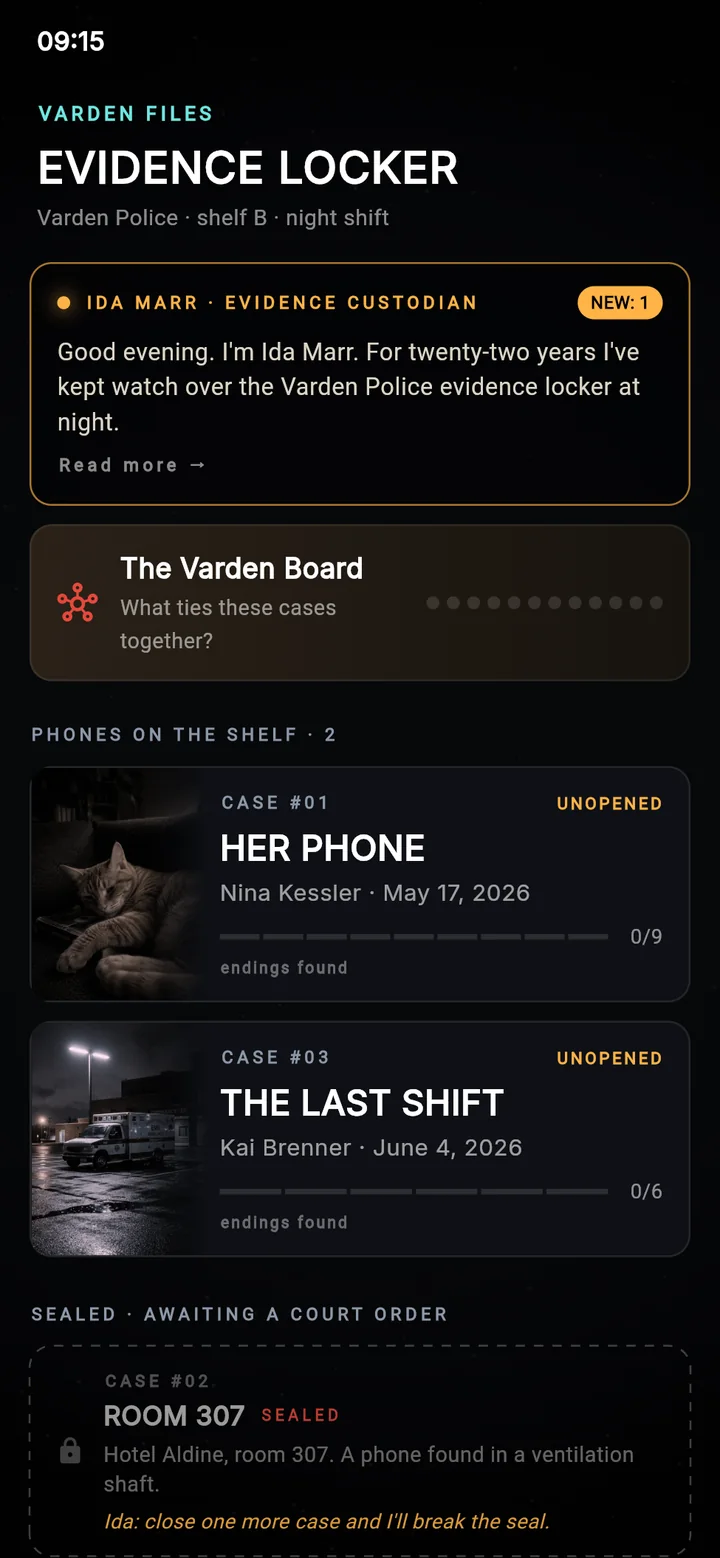
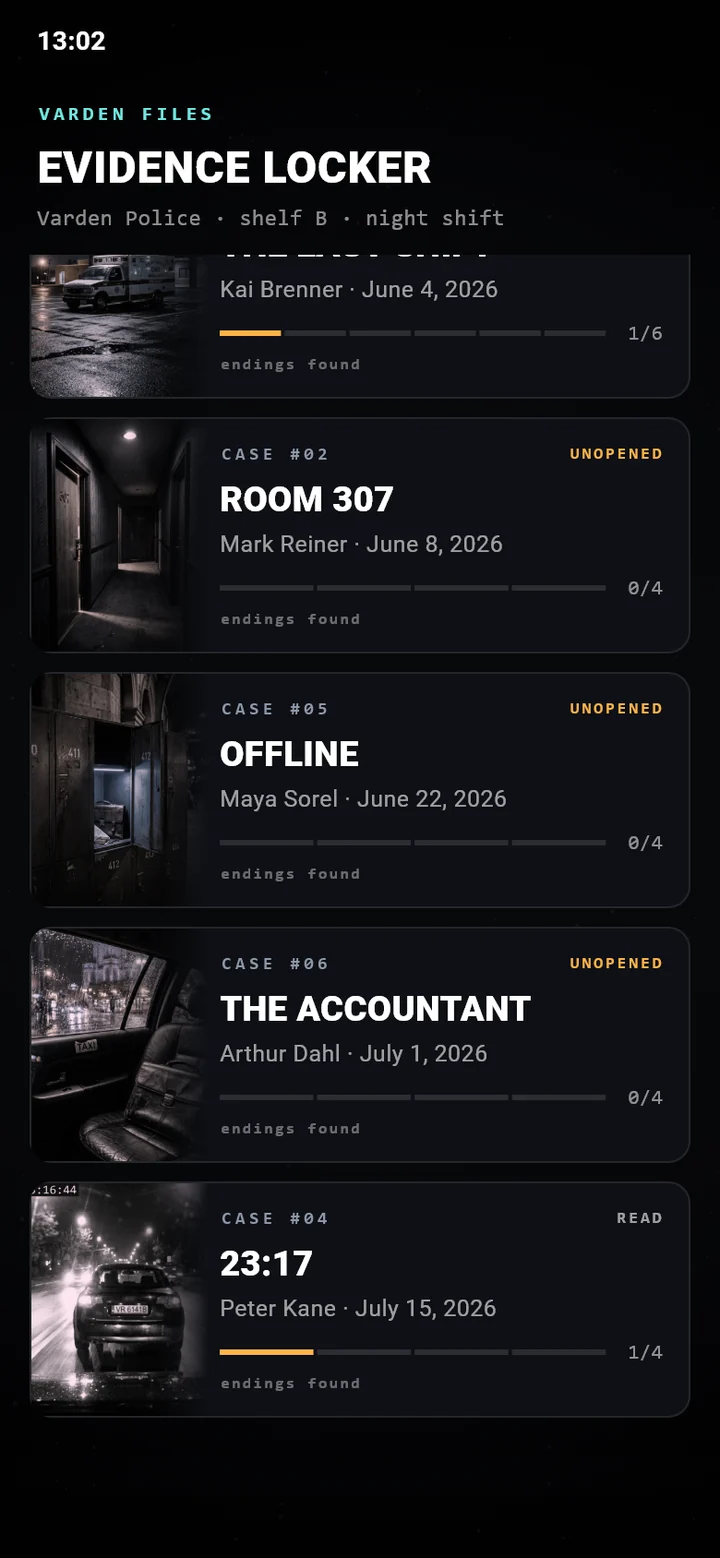
Fix cursor lag, keep game names on one line, centre galleries
- Use the native cursor; only a hover label rides beside it, moved
  straight from the pointer event, so it no longer trails the mouse.
- LUMINIS, VARDEN FILES and Luna never wrap: sized from their column
  width (cqi) in the sections, hero, game cards and tabs.
- Screenshot rails open on the middle shot, snap shots to the centre,
  fade at both edges and get previous/next buttons.
- VARDEN FILES: all six cases shown as open; new locker screenshot,
  the sealed-bags shot removed.

diff --git a/index.css b/index.css
@@ -160,19 +160,17 @@ html[data-world='origin'] .world-index, html[data-world='outro'] .world-index { 
 @media (max-width: 1559px) { .world-index { display: none; } }
 
 /* ─── Cursor ──────────────────────────────────────────────────────────────── */
-html.has-cursor, html.has-cursor a, html.has-cursor button, html.has-cursor [data-cursor] { cursor: none; }
-.cursor-dot, .cursor-ring { position: fixed; left: 0; top: 0; z-index: 150; pointer-events: none; }
-.cursor-dot { width: 6px; height: 6px; margin: -3px 0 0 -3px; border-radius: 50%; background: var(--accent); transition: background-color var(--tint); }
-.cursor-ring {
-  width: 38px; height: 38px; margin: -19px 0 0 -19px; border-radius: 50%; border: 1px solid color-mix(in oklab, var(--text) 45%, transparent);
-  display: grid; place-items: center;
+/* The system cursor stays; this is only a label that rides beside it. */
+.rail { cursor: grab; }
+.rail.is-grabbing { cursor: grabbing; }
+.cursor-tag {
+  position: fixed; left: 0; top: 0; z-index: 150; pointer-events: none; will-change: transform;
+  margin: 18px 0 0 16px; padding: 7px 12px 6px; border-radius: 999px; background: var(--accent); color: var(--accent-ink);
+  font-family: var(--font-mono); font-size: 10px; letter-spacing: 0.14em; text-transform: uppercase; white-space: nowrap;
+  opacity: 0; scale: 0.6; transform-origin: 0 0; transition: opacity 160ms, scale 220ms var(--ease-out), background-color var(--tint);
 }
-.cursor-ring > span { font-family: var(--font-mono); font-size: 10px; letter-spacing: 0.14em; text-transform: uppercase; color: var(--accent-ink); opacity: 0; transition: opacity 200ms; }
-.cursor-ring::before { content: ''; position: absolute; inset: -1px; border-radius: 50%; background: var(--accent); transform: scale(0); transition: transform 450ms var(--ease-out); }
-.cursor-ring.is-active::before { transform: scale(0.35); opacity: 0.4; }
-.cursor-ring.has-label::before { transform: scale(1.9); opacity: 1; }
-.cursor-ring.has-label > span { opacity: 1; position: relative; }
-@media (hover: none) { .cursor-dot, .cursor-ring { display: none; } }
+.cursor-tag.is-on { opacity: 1; scale: 1; }
+@media (hover: none) { .cursor-tag { display: none; } }
 
 /* ─── Hero · featured slider ──────────────────────────────────────────────── */
 .hero { position: relative; height: 100svh; min-height: 640px; overflow: hidden; }
@@ -298,7 +296,6 @@ html.has-cursor, html.has-cursor a, html.has-cursor button, html.has-cursor [dat
 .press-icons span { display: flex; flex-direction: column; font-family: var(--font-display); font-stretch: 85%; font-weight: 700; font-size: 14px; }
 .press-icons small { font-family: var(--font-mono); font-weight: 400; font-size: 10px; letter-spacing: 0.08em; color: var(--text-dim); }
 
-.case-ida { margin: 10px 0 0 !important; font-style: italic; font-size: 13px !important; color: #E8A94F !important; }
 .sr-only { position: absolute; width: 1px; height: 1px; padding: 0; margin: -1px; overflow: hidden; clip: rect(0 0 0 0); white-space: nowrap; border: 0; }
 
 /* ─── World scaffolding ───────────────────────────────────────────────────── */
@@ -329,17 +326,24 @@ html.has-cursor, html.has-cursor a, html.has-cursor button, html.has-cursor [dat
 
 /* Screenshot rail */
 .rail-wrap { position: relative; margin: clamp(64px, 9vh, 120px) 0 clamp(48px, 7vh, 96px); }
+.rail-wrap .rail { -webkit-mask-image: linear-gradient(90deg, transparent, #000 9%, #000 91%, transparent); mask-image: linear-gradient(90deg, transparent, #000 9%, #000 91%, transparent); }
+.rail-nav { display: flex; justify-content: center; gap: 12px; margin-top: 8px; }
+.rail-btn { width: 48px; height: 48px; border-radius: 50%; border: 1px solid var(--rule); color: var(--text); display: inline-grid; place-items: center; transition: border-color 200ms, color 200ms, background-color 200ms; }
+.rail-btn:hover { border-color: var(--accent); color: var(--accent); }
+.rail-btn:focus-visible { outline: 2px solid var(--accent); outline-offset: 3px; }
+@media (hover: none) { .rail-nav { display: none; } }
 .rail {
   display: flex; gap: clamp(16px, 2vw, 32px); overflow-x: auto; overscroll-behavior-x: contain; scroll-snap-type: x proximity;
-  padding: 20px max(var(--gutter), calc((100vw - var(--max)) / 2 + var(--gutter))) 28px;
-  scroll-padding-inline: max(var(--gutter), calc((100vw - var(--max)) / 2 + var(--gutter)));
+  position: relative; justify-content: safe center;
+  /* Half the rail minus half a shot each side, so the first and last shots can reach the centre too. */
+  padding: 20px calc(50% - 150px) 28px;
   scrollbar-width: none; user-select: none; -webkit-user-select: none;
 }
 .rail::-webkit-scrollbar { display: none; }
 .rail.is-grabbing { scroll-snap-type: none; }
 .rail { align-items: flex-end; }
 /* Every shot shares one height; width follows its own ratio (--r = height / width). */
-.shot { --shot-h: clamp(400px, 58vh, 600px); flex: none; width: calc((var(--shot-h) - 14px) / var(--r, 2.1667) + 14px); margin: 0; scroll-snap-align: start; }
+.shot { --shot-h: clamp(400px, 58vh, 600px); flex: none; width: calc((var(--shot-h) - 14px) / var(--r, 2.1667) + 14px); margin: 0; scroll-snap-align: center; }
 .shot-media {
   position: relative; aspect-ratio: 1 / var(--r, 2.1667); border-radius: 34px; overflow: hidden; background: #0c0c0e;
   border: 7px solid #121214; box-shadow: 0 30px 80px -30px rgba(0, 0, 0, 0.85), 0 0 0 1px rgba(255, 255, 255, 0.08);
@@ -350,7 +354,7 @@ html.has-cursor, html.has-cursor a, html.has-cursor button, html.has-cursor [dat
 .shot-live { position: absolute; left: 12px; top: 12px; display: inline-flex; align-items: center; gap: 8px; padding: 6px 10px; border-radius: 999px; background: rgba(0, 0, 0, 0.55); backdrop-filter: blur(8px); -webkit-backdrop-filter: blur(8px); font-family: var(--font-mono); font-size: 10px; letter-spacing: 0.14em; text-transform: uppercase; color: #fff; }
 @media (max-width: 767px) { .shot { --shot-h: 440px; } }
 .shot:hover .shot-media { transform: translateY(-8px) rotate(-0.6deg); box-shadow: 0 40px 90px -30px rgba(0, 0, 0, 0.9), 0 0 0 1px var(--accent), 0 0 60px -10px var(--glow); }
-.shot figcaption { display: flex; gap: 10px; margin-top: 14px; font-size: 11px; letter-spacing: 0.12em; text-transform: uppercase; color: var(--text-mute); }
+.shot figcaption { display: flex; justify-content: center; text-align: center; gap: 10px; margin-top: 14px; font-size: 11px; letter-spacing: 0.12em; text-transform: uppercase; color: var(--text-mute); }
 .shot figcaption span { color: var(--accent); }
 
 .world-foot { display: grid; grid-template-columns: auto 1fr auto; gap: 24px; align-items: center; padding: 28px; border: 1px solid var(--rule); border-radius: 24px; background: color-mix(in oklab, var(--bg) 70%, transparent); backdrop-filter: blur(12px); -webkit-backdrop-filter: blur(12px); }
@@ -413,15 +417,8 @@ html.has-cursor, html.has-cursor a, html.has-cursor button, html.has-cursor [dat
 .case-top { display: flex; justify-content: space-between; font-family: var(--font-mono); font-size: 11px; letter-spacing: 0.14em; text-transform: uppercase; color: var(--text-dim); }
 .case.is-open .case-state { color: #5FE0D2; }
 .case.is-open .case-state::before { content: '● '; }
-.case.is-sealed .case-state { color: #FF3B4A; }
 .case h4 { font-family: var(--font-display); font-weight: 900; font-stretch: 100%; text-transform: uppercase; font-size: 30px; line-height: 0.95; letter-spacing: -0.01em; margin: auto 0 10px; padding-top: 34px; }
 .case p { margin: 0; font-size: 15px; color: var(--text-mute); line-height: 1.45; }
-.case.is-sealed { background: repeating-linear-gradient(-45deg, rgba(255, 255, 255, 0.012) 0 10px, rgba(255, 255, 255, 0.03) 10px 20px); }
-.case.is-sealed h4, .case.is-sealed p { filter: blur(0.3px); opacity: 0.72; }
-.case-seal {
-  position: absolute; right: -46px; bottom: 30px; transform: rotate(-32deg); background: #FF3B4A; color: #1A0204;
-  font-family: var(--font-mono); font-size: 9px; letter-spacing: 0.2em; text-transform: uppercase; padding: 4px 48px; font-weight: 600;
-}
 .locker-note { font-family: var(--font-mono); font-size: 12px; letter-spacing: 0.06em; color: var(--text-dim); margin-top: 22px; }
 
 /* ─── World III · Lune ────────────────────────────────────────────────────── */
@@ -587,3 +584,17 @@ html.has-cursor, html.has-cursor a, html.has-cursor button, html.has-cursor [dat
 
 .honesty + .stats { margin-top: clamp(48px, 7vh, 96px); }
 .lune-disclaimer { margin-top: 40px; }
+
+/* ─── Game names stay on one line ─────────────────────────────────────────── */
+/* Sized from the width of their own column (cqi), so a name never breaks. */
+.world-copy, .slide-copy, .capsule-body { container-type: inline-size; }
+.luminis-title, .varden-title, .lune-title, .logo, .hero-tab-name { white-space: nowrap; }
+.luminis-title { font-size: min(168px, 19.5cqi); }
+.varden-title { font-stretch: 75%; font-size: min(150px, 16.4cqi); }
+.lune-title { font-size: min(250px, 40cqi); }
+.logo--varden .logo-files { display: inline; margin-left: 0.32em; }
+.logo--xl.logo--luminis { font-size: min(150px, 19cqi); }
+.logo--xl.logo--varden { font-size: min(132px, 10.5cqi); }
+.logo--xl.logo--luna { font-size: min(210px, 36cqi); }
+.logo--md.logo--luminis { font-size: min(48px, 19cqi); }
+.logo--md.logo--varden { font-size: min(42px, 10.5cqi); }

diff --git a/src/components/ui.tsx b/src/components/ui.tsx
@@ -14,9 +14,37 @@ export function ChapterRule({ world }: { world: World }) {
   );
 }
 
-/** Horizontal, draggable rail of screenshots. Native scroll underneath, so touch and keyboard just work. */
+/**
+ * Centred, draggable rail of screenshots. It opens on the middle shot, snaps
+ * each shot to the centre of the page and fades out at both edges. Native
+ * scroll underneath, so touch and keyboard just work.
+ */
 export function ShotRail({ world, label, video }: { world: World; label: string; video?: { src: string; poster: string; caption: string } }) {
   const ref = useRef<HTMLDivElement>(null);
+
+  // Start on the middle shot so the rail sits symmetrically under the page.
+  useEffect(() => {
+    const el = ref.current;
+    if (!el) return;
+    const centre = () => {
+      const mid = el.children[Math.floor(el.children.length / 2)] as HTMLElement | undefined;
+      if (mid) el.scrollLeft = mid.offsetLeft + mid.offsetWidth / 2 - el.clientWidth / 2;
+    };
+    centre();
+    let lastW = window.innerWidth;
+    const onResize = () => { if (window.innerWidth !== lastW) { lastW = window.innerWidth; centre(); } };
+    window.addEventListener('resize', onResize);
+    return () => window.removeEventListener('resize', onResize);
+  }, []);
+
+  const step = (dir: 1 | -1) => {
+    const el = ref.current;
+    const first = el?.children[0] as HTMLElement | undefined;
+    if (!el || !first) return;
+    const gap = parseFloat(getComputedStyle(el).columnGap) || 0;
+    el.scrollBy({ left: dir * (first.offsetWidth + gap), behavior: reducedMotion() ? 'auto' : 'smooth' });
+  };
+
   useEffect(() => {
     const el = ref.current;
     if (!el || !finePointer()) return;
@@ -58,6 +86,10 @@ export function ShotRail({ world, label, video }: { world: World; label: string;
             </figure>
           );
         })}
+      </div>
+      <div className="rail-nav">
+        <button type="button" className="rail-btn" onClick={() => step(-1)} aria-label="Previous screenshot"><Arrow dir="left" /></button>
+        <button type="button" className="rail-btn" onClick={() => step(1)} aria-label="Next screenshot"><Arrow dir="right" /></button>
       </div>
     </div>
   );
@@ -137,50 +169,39 @@ export function FeatureList({ items, className = '' }: { items: { title: string;
   );
 }
 
-/** Desktop-only cursor: a dot plus a ring that grows and labels itself over interactive things. */
+/**
+ * Desktop-only hover label ("Drag", "Open", "Write") next to the system cursor.
+ * The pointer itself stays the native, hardware-drawn cursor, so it never lags
+ * behind the mouse however busy the page is; the label is moved straight from
+ * the pointer event, with no easing loop.
+ */
 export function Cursor() {
-  const dot = useRef<HTMLDivElement>(null);
-  const ring = useRef<HTMLDivElement>(null);
-  const [label, setLabel] = useState('');
-  const [enabled] = useState(() => typeof window !== 'undefined' && finePointer() && !reducedMotion());
+  const tag = useRef<HTMLDivElement>(null);
+  const [enabled] = useState(() => typeof window !== 'undefined' && finePointer());
 
   useEffect(() => {
-    if (!enabled) return;
-    document.documentElement.classList.add('has-cursor');
-    const pos = { x: -100, y: -100, rx: -100, ry: -100 };
-    let raf = 0;
+    const el = tag.current;
+    if (!enabled || !el) return;
+    let current = '';
     const onMove = (e: PointerEvent) => {
-      pos.x = e.clientX; pos.y = e.clientY;
-      const target = (e.target as HTMLElement | null)?.closest<HTMLElement>('a, button, [data-cursor], [role="button"]');
-      ring.current?.classList.toggle('is-active', !!target);
-      setLabel(target?.dataset.cursor ?? '');
+      el.style.transform = `translate3d(${e.clientX}px, ${e.clientY}px, 0)`;
+      const label = (e.target as HTMLElement | null)?.closest<HTMLElement>('[data-cursor]')?.dataset.cursor ?? '';
+      if (label === current) return;
+      current = label;
+      if (label) el.textContent = label;
+      el.classList.toggle('is-on', !!label);
     };
-    const onLeave = () => { pos.x = -100; pos.y = -100; };
-    const loop = () => {
-      pos.rx += (pos.x - pos.rx) * 0.18;
-      pos.ry += (pos.y - pos.ry) * 0.18;
-      if (dot.current) dot.current.style.transform = `translate3d(${pos.x}px, ${pos.y}px, 0)`;
-      if (ring.current) ring.current.style.transform = `translate3d(${pos.rx}px, ${pos.ry}px, 0)`;
-      raf = requestAnimationFrame(loop);
-    };
+    const onLeave = () => { current = ''; el.classList.remove('is-on'); };
     window.addEventListener('pointermove', onMove, { passive: true });
     document.addEventListener('pointerleave', onLeave);
-    raf = requestAnimationFrame(loop);
     return () => {
-      cancelAnimationFrame(raf);
       window.removeEventListener('pointermove', onMove);
       document.removeEventListener('pointerleave', onLeave);
-      document.documentElement.classList.remove('has-cursor');
     };
   }, [enabled]);
 
   if (!enabled) return null;
-  return (
-    <>
-      <div ref={ring} className={`cursor-ring ${label ? 'has-label' : ''}`} aria-hidden><span>{label}</span></div>
-      <div ref={dot} className="cursor-dot" aria-hidden />
-    </>
-  );
+  return <div ref={tag} className="cursor-tag" aria-hidden />;
 }
 
 export function Eyebrow({ children }: { children: ReactNode }) {

diff --git a/src/content.ts b/src/content.ts
@@ -72,8 +72,8 @@ export const WORLDS: Record<WorldId, World> = {
     tagline: 'Every phone remembers its last night.',
     icon: 'apps/varden-files/icon.webp',
     shots: shots('varden-files', PHONE, [
-      'Every phone remembers', 'Evidence locker · shelf B', 'Intake protocol', 'Case #01 · 23:52', 'Her lock screen',
-      'Varden OS 26', 'Messages from Unknown', 'Photos', 'Greywood Forest, 23:45', 'The Varden Board', 'Sealed until a court order',
+      'Every phone remembers', 'Shelf B · all six cases open', 'Intake protocol', 'Case #01 · 23:52', 'Her lock screen',
+      'Varden OS 26', 'Messages from Unknown', 'Photos', 'Greywood Forest, 23:45', 'The Varden Board',
     ]),
     heroShots: [0, 6, 1],
     cardShot: 0,
@@ -140,14 +140,14 @@ export const VARDEN = {
     body: '“Good evening. I’m Ida Marr. For twenty-two years I’ve kept watch over the Varden Police evidence locker at night.” Every phone on shelf B carries a destruction order signed “R.” — and Ida keeps putting them on hold.',
   },
   cases: [
-    { no: '#01', title: 'Her Phone', line: 'Nina Kessler, 28, media analyst. Found on a Northgate pavement at the edge of Greywood Forest, May 17, 23:52.', open: true },
-    { no: '#02', title: 'Room 307', line: 'Hotel Aldine, room 307. A phone found in a ventilation shaft.', open: false, seal: 'Close one more case and I’ll break the seal.' },
-    { no: '#03', title: 'The Last Shift', line: 'Kai Brenner, paramedic. A work phone left in locker 14, Riverside station, June 4, 04:18.', open: true },
-    { no: '#04', title: '23:17', line: 'A dashcam. 23:17. North Ring Road.', open: false, seal: 'Close one more case and I’ll break the seal.' },
-    { no: '#05', title: 'Offline', line: 'A locker at Central Station. A ferry ticket nobody used.', open: false, seal: 'Close one more case and I’ll break the seal.' },
-    { no: '#06', title: 'The Accountant', line: 'An accountant who wired €1.27M and vanished in a taxi.', open: false, seal: 'Close three more cases and I’ll break the seal.' },
+    { no: '#01', title: 'Her Phone', line: 'Nina Kessler, 28, media analyst. Found on a Northgate pavement at the edge of Greywood Forest, May 17, 23:52.' },
+    { no: '#02', title: 'Room 307', line: 'Hotel Aldine, room 307. A phone found in a ventilation shaft.' },
+    { no: '#03', title: 'The Last Shift', line: 'Kai Brenner, paramedic. A work phone left in locker 14, Riverside station, June 4, 04:18.' },
+    { no: '#04', title: '23:17', line: 'A dashcam. 23:17. North Ring Road.' },
+    { no: '#05', title: 'Offline', line: 'A locker at Central Station. A ferry ticket nobody used.' },
+    { no: '#06', title: 'The Accountant', line: 'An accountant who wired €1.27M and vanished in a taxi.' },
   ],
-  lockerNote: 'Two phones are on the shelf from the start. The four sealed bags open as you close cases — each with its own opening scene and its own sound of the night: a hotel, a road, a station, rain in a taxi.',
+  lockerNote: 'All six phones are on the shelf. Each case opens with its own scene and its own sound of the night — a hotel, a road, a station, rain in a taxi — and every one you close changes the files of the others.',
   features: [
     { title: 'Varden OS 26', body: 'Thirteen working apps that run in the background and remember where you left them. Swipe home, swipe back, pull a photo out of its thumbnail, flick away a notification. Clues hide between apps.' },
     { title: 'Your choices matter', body: 'Reply to the people texting the owner, attach evidence to your chats or type the answers yourself. Earn or lose trust. Up to nine endings in a case, and a New Game+ that remembers what you found last night.' },

diff --git a/src/sections/Varden.tsx b/src/sections/Varden.tsx
@@ -53,7 +53,7 @@ export function Varden() {
           <div className="world-visual-space" aria-hidden />
           <div className="world-copy">
             <p className="varden-kicker" data-reveal><span aria-hidden className="rec" />Found phone thriller</p>
-            <h2 id="varden-title" className="varden-title" data-split>Varden<br />Files</h2>
+            <h2 id="varden-title" className="varden-title" data-split>Varden Files</h2>
             <p className="varden-tag" data-reveal>{VARDEN.tagline}</p>
             <p className="world-hook" data-reveal>{VARDEN.hook}</p>
             <p className="world-pitch" data-reveal>{VARDEN.pitch}</p>
@@ -79,15 +79,13 @@ export function Varden() {
           </header>
           <ol className="cases">
             {VARDEN.cases.map((c) => (
-              <li key={c.no} className={`case ${c.open ? 'is-open' : 'is-sealed'}`} data-reveal>
+              <li key={c.no} className="case is-open" data-reveal>
                 <div className="case-top">
                   <span className="case-no">Case {c.no}</span>
-                  <span className="case-state">{c.open ? 'On the shelf' : 'Sealed'}</span>
+                  <span className="case-state">On the shelf</span>
                 </div>
                 <h4>{c.title}</h4>
                 <p>{c.line}</p>
-                {c.seal && <p className="case-ida">Ida: {c.seal}</p>}
-                {!c.open && <span className="case-seal" aria-hidden>Evidence · do not open</span>}
               </li>
             ))}
           </ol>

diff --git a/README.md b/README.md
@@ -48,7 +48,10 @@ there is no smooth scroll, no reveal animation and the field renders static fram
     `docs/media/luminis-2.4-gameplay.mp4` as the looping video.
   - VARDEN FILES 2.0: `flutter build web` of the newest branch, played in headless Edge
     at 390×844 (2.5×), plus `SCREENSHOTS=1 SCREENSHOT_LOCALE=en flutter test
-    test/visual/screenshot_harness_test.dart` for the Varden Board.
+    test/visual/screenshot_harness_test.dart` for the Varden Board. Shot 2 (all six
+    cases open) is the locker from that harness with three cases' endings seeded in the
+    save, scrolled past Ida's note; the empty "Sealed" header the game leaves under
+    the list was painted out.
   - Luna 4.0: debug build on an Android 16 emulator (1080×2400), English, sample history
     from Settings → Test mode. Screenshots are blocked by default (FLAG_SECURE), so the
     capture build sets `HIDE_IN_RECENTS_DEFAULT` to false locally — never commit that.
